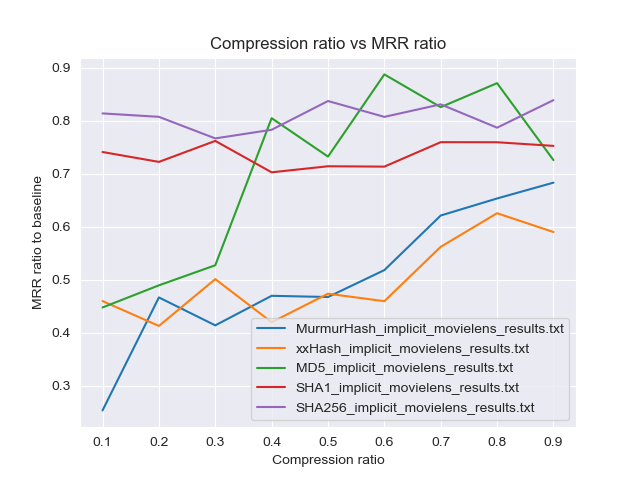
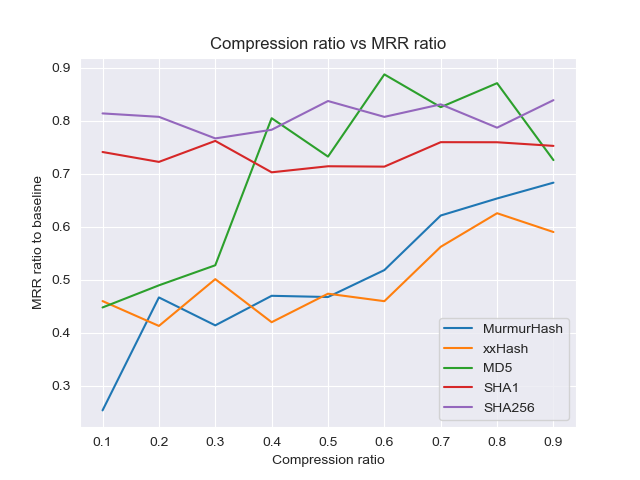
Recommendation Systems - Final Project

Changed region(s): [[0.4062, 0.6562, 0.875, 0.875], [0.4062, 0.8438, 0.4375, 0.875]]

diff --git a/README.md b/README.md
@@ -20,12 +20,13 @@ To alleviate this problem, we can use a smaller underlying embedding layer, and 
 * Zero or marginal space requirements.
 * Training time speedups.
 
+---
 ## Implementation
 This implementation uses embedding layers indexed by hashed indices. Vectors retrieved by each hash function are averaged together to yield the final embedding. \
-For hashing, we used different hash functions, and we performed hashing on the indices with a different seed, modulo the size of the compressed embedding layer. The hash mapping is computed once at the start of training and indexed into for every minibatch.
+For hashing, we used different hash functions such as: **MurmurHash, xxHash, MD5, SHA1, SHA256**, and we performed hashing on the indices with a different seed, modulo the size of the compressed embedding layer. The hash mapping is computed once at the start of training and indexed into for every minibatch.
 To exploit this sparsity structure, we simply skip zero entries in the input vector.
 
-
+---
 ## Installations
 * Install [miniconda](https://conda.io/miniconda.html) distribution of _python3_ using this [instruction](https://docs.conda.io/projects/conda/en/latest/user-guide/install/index.html).
 * Add _conda_ to your bashrc:
@@ -38,6 +39,30 @@ echo "source $HOME/miniconda3/etc/profile.d/conda.sh" >> ~/.bashrc
 conda env update -f environment.yml      # create the virtual environemnt
 conda env list                           # make sure the environemnt was added
 conda activate recommandation-systems    # activate it
+```
+---
+## Running Example
+```python
+from datasets.movielens import get_movielens_dataset
+from evaluations.cross_validation import random_train_test_split
+from evaluations.evaluation import mrr_score
+from factorization.implicit import ImplicitFactorizationModel
+from model_utils.layers import BloomEmbedding
+from model_utils.networks import Net
+
+dataset = get_movielens_dataset(variant='100K')
+train, test = random_train_test_split(dataset)
+
+for hash_function in ('MurmurHash', 'xxHash', 'MD5', 'SHA1', 'SHA256'):
+    user_embeddings = BloomEmbedding(dataset.num_users, 32, compression_ratio=0.4, num_hash_functions=2, hash_function=hash_function)
+    item_embeddings = BloomEmbedding(dataset.num_items, 32, compression_ratio=0.4, num_hash_functions=2, hash_function=hash_function)
+
+    network = Net(dataset.num_users, dataset.num_items, user_embedding_layer=user_embeddings, item_embedding_layer=item_embeddings)
+    model = ImplicitFactorizationModel(n_iter=1, loss='bpr', batch_size=1024, learning_rate=1e-2, l2=1e-6, representation=network, use_cuda=False)
+    model.fit(train, verbose=True)
+
+    mrr = mrr_score(model, test)
+    print(f'MRR Score: {mrr.mean()}')
 ```
 
 ## Datasets
